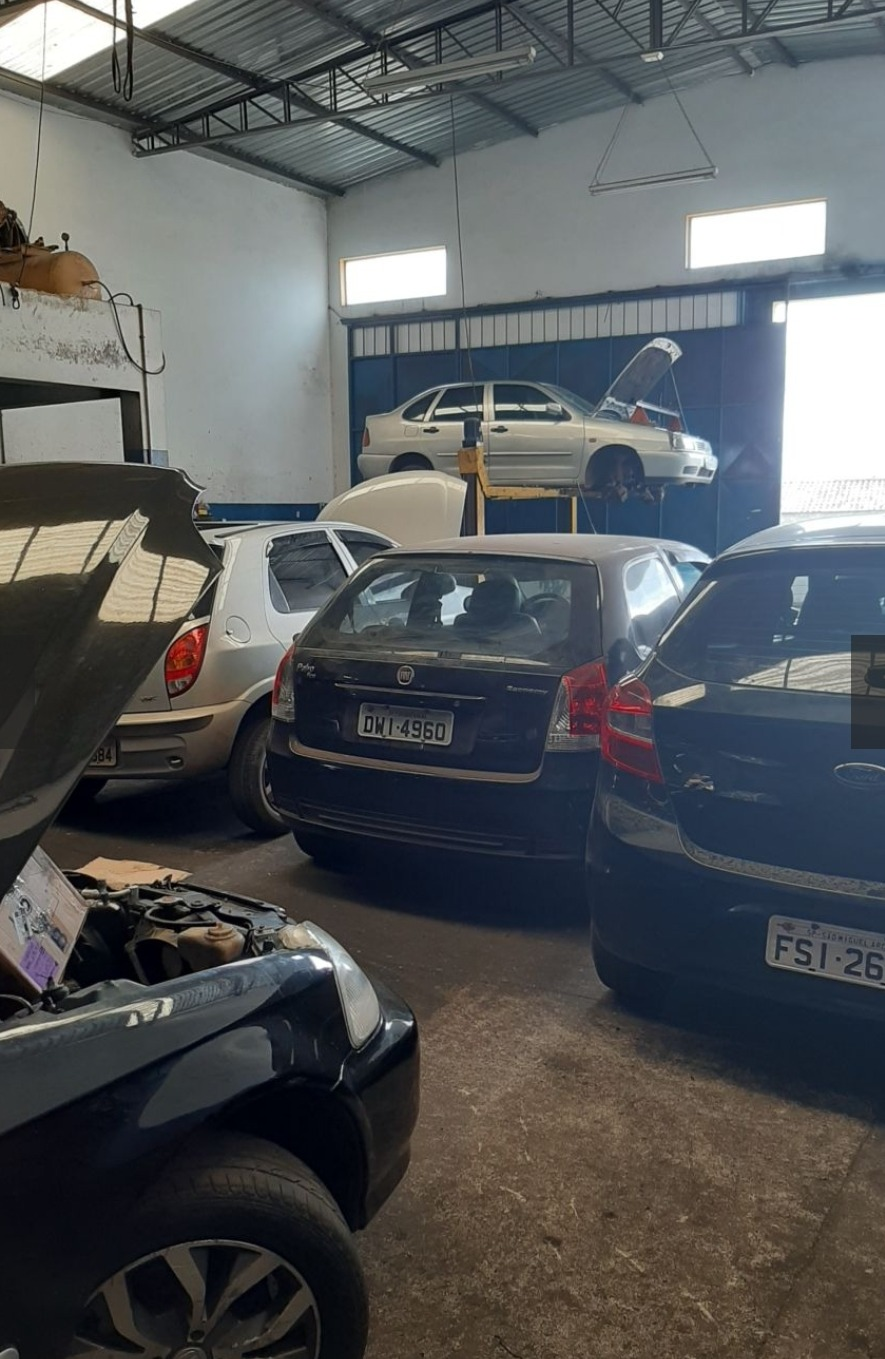
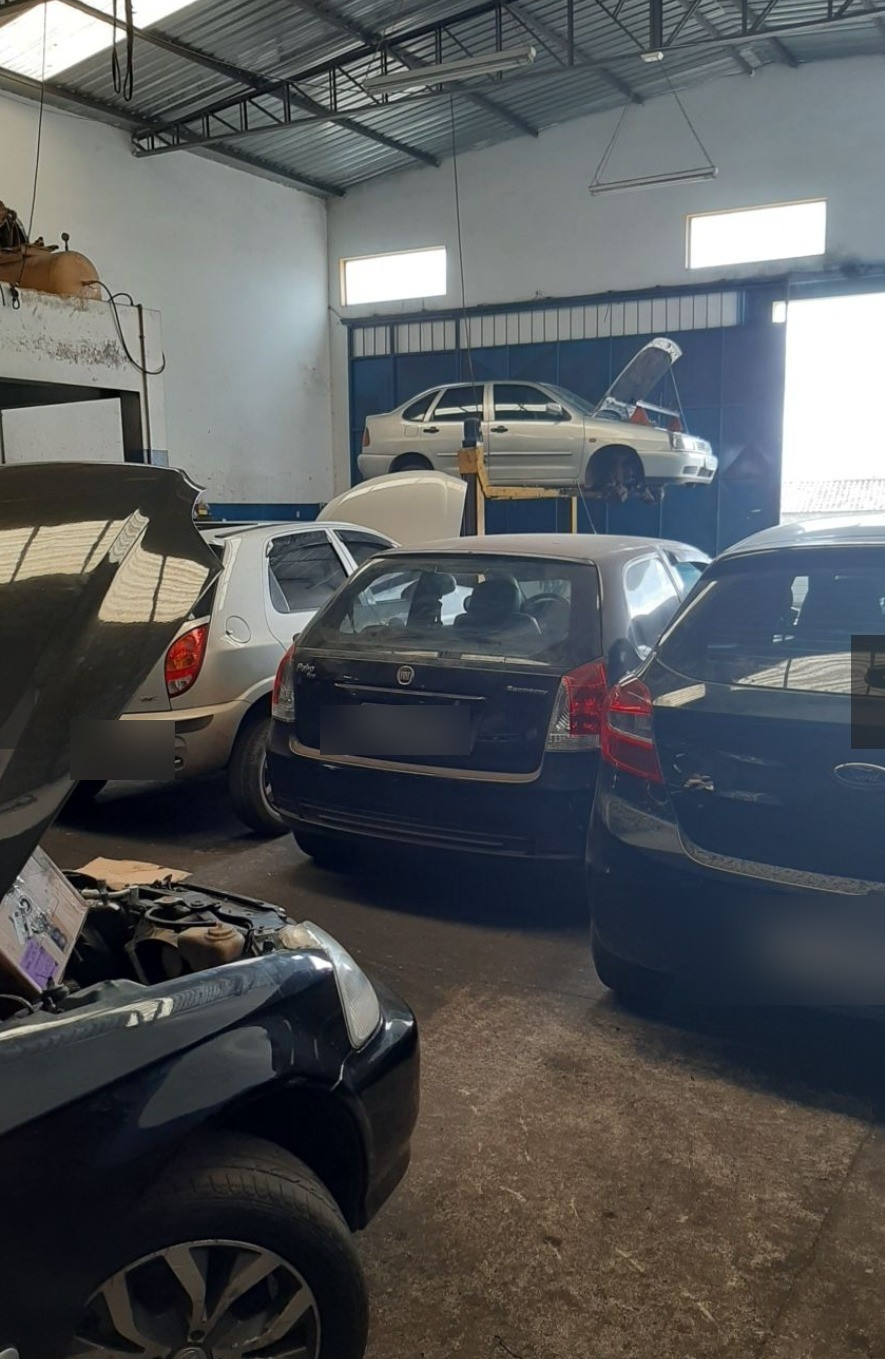
fix: borra placas visíveis e ajusta hero conforme referência do GPT
- Borra (blur) todas as placas legíveis nas fotos reais (hero, vitrine
  da garagem, galeria da oficina) — a cena continua real, só a placa
  fica ilegível por privacidade.
- Adiciona separador "|" entre os itens do menu no desktop e ícone do
  WhatsApp dentro do botão da hero, replicando os dois detalhes do
  mockup gerado no GPT que ainda não estavam no site.

Claude-Session: https://claude.ai/code/session_016Dxcnqt1wBQMA57RfbJL4X

Changed region(s): [[0.8542, 0.6799, 1.0, 0.7417], [0.3661, 0.5254, 0.5186, 0.5563], [0.0915, 0.5254, 0.2136, 0.5872]]

diff --git a/index.html b/index.html
@@ -104,6 +104,7 @@
       <p class="hero__texto">A Remop nasceu para resolver um problema simples: motor com defeito precisa de quem entenda de verdade, não de quem só troca peça. Informação clara em cada orçamento, cada correia trocada, cada cabeçote retificado.</p>
       <div class="hero__ctas">
         <a class="botao botao--whatsapp" data-whatsapp-mensagem="Olá! Vim pelo site e gostaria de falar sobre um serviço." href="#" target="_blank" rel="noopener">
+          <svg width="18" height="18" viewBox="0 0 32 32" fill="currentColor" aria-hidden="true"><path d="M16 3C9 3 3.4 8.6 3.4 15.5c0 2.4.7 4.7 1.9 6.7L3 29l7-2.2c1.9 1 4 1.6 6 1.6 7 0 12.6-5.6 12.6-12.5S23 3 16 3zm0 22.7c-1.9 0-3.7-.5-5.3-1.4l-.4-.2-4.2 1.3 1.4-4.1-.2-.4c-1-1.6-1.5-3.5-1.5-5.4C5.8 9.9 10.4 5.3 16 5.3S26.2 9.9 26.2 15.5 21.6 25.7 16 25.7zm6-7.9c-.3-.2-1.9-.9-2.2-1s-.5-.2-.8.2-.9 1-1.1 1.2-.4.3-.7.1c-.3-.2-1.4-.5-2.6-1.6-1-.9-1.6-1.9-1.8-2.3-.2-.3 0-.5.1-.7.1-.1.3-.4.5-.5.2-.2.2-.3.3-.5.1-.2 0-.4 0-.5-.1-.2-.8-1.9-1.1-2.6-.3-.7-.6-.6-.8-.6h-.7c-.2 0-.6.1-.9.4S9 10.1 9 11.4c0 1.3.9 2.6 1.1 2.8.1.2 1.8 2.8 4.4 3.9.6.3 1.1.4 1.5.6.6.2 1.2.2 1.6.1.5-.1 1.4-.6 1.6-1.1.2-.5.2-1 .1-1.1-.1-.1-.3-.2-.6-.4z"/></svg>
           Falar no WhatsApp
         </a>
         <a class="botao botao--secundario" href="#servicos">Ver serviços <span class="botao__seta" aria-hidden="true">→</span></a>

diff --git a/assets/css/style.css b/assets/css/style.css
@@ -242,7 +242,13 @@ p { margin: 0 0 12px; color: var(--cor-texto-claro); }
     padding: 0;
     gap: 22px;
   }
-  .nav-principal a { border-bottom: none; padding: 4px 0; }
+  .nav-principal a { border-bottom: none; padding: 4px 0; position: relative; }
+  .nav-principal a:not(:last-child)::after {
+    content: '|';
+    position: absolute;
+    right: -13px;
+    color: rgba(255,255,255,0.35);
+  }
 }
 
 /* ---------- Hero ---------- */
